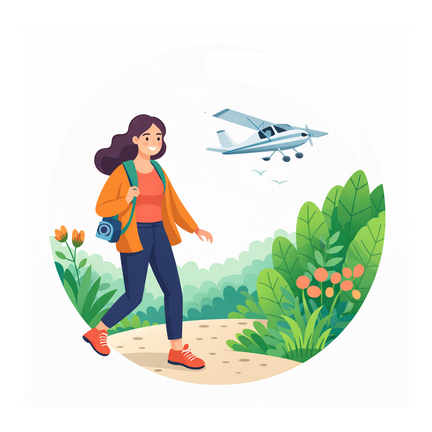
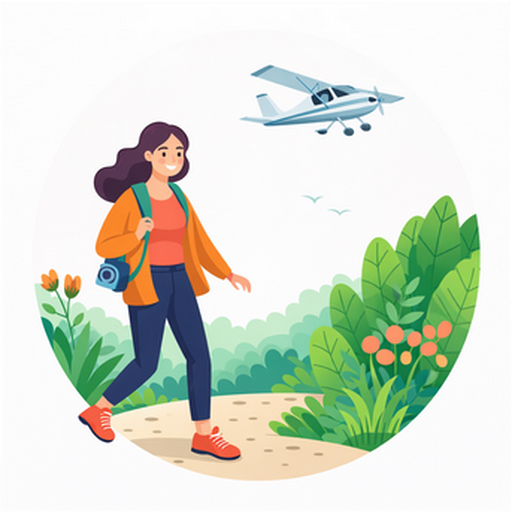
1.1.3 (21) fix premiums

Changed region(s): [[0.0602, 0.2106, 0.963, 0.963], [0.4514, 0.1204, 0.7824, 0.4213]]

diff --git a/lib/screens/tracks_screen.dart b/lib/screens/tracks_screen.dart
@@ -37,13 +37,17 @@ class _TracksScreenState extends State<TracksScreen> {
     });
   }
 
-  Future<bool> _checkPremium() async {
+  Future<bool> _checkPremiumArchives() async {
     if (!mounted) return false;
     final premiumState = context.read<PremiumState>();
+    
+    // FORCER le rechargement de l'état depuis les préférences pour être sûr
     await premiumState.initializationDone;
     
-    if (!mounted) return false;
-    if (premiumState.isPremium) return true;
+    // On vérifie à nouveau après l'initialisation
+    if (premiumState.isPremium || premiumState.isPremiumArchives) {
+      return true;
+    }
 
     if (!context.mounted) return false;
     final result = await showDialog<bool>(
@@ -51,15 +55,15 @@ class _TracksScreenState extends State<TracksScreen> {
       barrierDismissible: false,
       builder: (dialogContext) => Consumer<PremiumState>(
         builder: (context, state, child) {
-          if (state.isPremium) {
+          if (state.isPremium || state.isPremiumArchives) {
             return AlertDialog(
-              title: const Text("Premium Activé !"),
+              title: const Text("Accès Activé !"),
               content: const Column(
                 mainAxisSize: MainAxisSize.min,
                 children: [
                   Icon(Icons.check_circle, size: 64, color: Colors.green),
                   SizedBox(height: 16),
-                  Text("Votre achat a été reconnu. Vous pouvez maintenant archiver vos traces."),
+                  Text("Vous pouvez maintenant archiver vos traces."),
                 ],
               ),
               actions: [
@@ -94,8 +98,8 @@ class _TracksScreenState extends State<TracksScreen> {
               ),
               ElevatedButton(
                 style: ElevatedButton.styleFrom(backgroundColor: Colors.orange),
-                onPressed: () => state.buyPremium(),
-                child: Text("${ol('premium_buy_label')} ${state.formattedPrice}", style: const TextStyle(color: Colors.white)),
+                onPressed: () => state.buyPremiumArchives(),
+                child: Text("${ol('premium_buy_label')} ${state.formattedPriceArchives}", style: const TextStyle(color: Colors.white)),
               ),
             ],
           );
@@ -113,14 +117,14 @@ class _TracksScreenState extends State<TracksScreen> {
 
     return Scaffold(
       backgroundColor: Colors.grey[200],
-      extendBody: true, // Permet au contenu d'aller sous la barre de navigation
-      extendBodyBehindAppBar: false, // On garde l'AppBar au dessus pour l'instant
+      extendBody: true, 
+      extendBodyBehindAppBar: false, 
       appBar: AppBar(
         backgroundColor: Colors.brown,
         systemOverlayStyle: const SystemUiOverlayStyle(
-          statusBarColor: Colors.transparent, // Rend la barre d'état transparente
-          statusBarIconBrightness: Brightness.light, // Icônes blanches sur fond marron
-          systemNavigationBarColor: Colors.transparent, // Rend la barre de navigation transparente
+          statusBarColor: Colors.transparent, 
+          statusBarIconBrightness: Brightness.light, 
+          systemNavigationBarColor: Colors.transparent, 
           systemNavigationBarIconBrightness: Brightness.dark,
         ),
         iconTheme: const IconThemeData(color: Colors.white),
@@ -386,8 +390,8 @@ class _TracksScreenState extends State<TracksScreen> {
                             messenger.showSnackBar(SnackBar(content: Text('${ol('track_renamed_snackbar')} "$newName".')));
                             break;
                           case 'archive':
-                            final isPremium = await _checkPremium();
-                            if (!mounted || !isPremium || selectedTracks.isEmpty) return;
+                            final hasArchiveAccess = await _checkPremiumArchives();
+                            if (!mounted || !hasArchiveAccess || selectedTracks.isEmpty) return;
 
                             await trackDataRef.archiveTracks(selectedTracks);
                             if (!mounted) return;

diff --git a/lib/models/premium_state.dart b/lib/models/premium_state.dart
@@ -21,10 +21,12 @@ class PremiumState extends ChangeNotifier {
   final InAppPurchase _inAppPurchase = InAppPurchase.instance;
   late StreamSubscription<List<PurchaseDetails>> _subscription;
 
+  // L'accès aux archives est autorisé si on a l'option archives OU le pack premium complet
   bool get isPremiumArchives => _isPremiumArchives || _isFullPremium;
   bool get isFullPremium => _isFullPremium;
   
-  bool get isPremium => isPremiumArchives; 
+  // isPremium représente le pack complet
+  bool get isPremium => _isFullPremium; 
 
   String get formattedPriceArchives => _priceArchives;
   String get formattedPricePack => _pricePack;
@@ -39,7 +41,6 @@ class PremiumState extends ChangeNotifier {
   Future<void> _init() async {
     await _loadPremiumState();
     _initializeInAppPurchase();
-    // Plus de restauration automatique pour éviter de forcer le mode premium
   }
 
   Future<void> _loadPremiumState() async {
@@ -109,13 +110,15 @@ class PremiumState extends ChangeNotifier {
     await _loadPremiumState();
   }
 
-  Future<void> setPremium(bool value) async {
-    await _setPremiumState(_keyFull, value);
-  }
-
   Future<bool> checkSecretCode(String code) async {
     if (code == "Traceo2024") {
-      await setPremium(!_isFullPremium);
+      // Toggle pour le Premium Complet
+      await _setPremiumState(_keyFull, !_isFullPremium);
+      return true;
+    }
+    if (code == "TraceoArchive") {
+      // Toggle pour simuler uniquement l'option Archive
+      await _setPremiumState(_keyArchives, !_isPremiumArchives);
       return true;
     }
     return false;

diff --git a/lib/screens/map_screen.dart b/lib/screens/map_screen.dart
@@ -200,6 +200,8 @@ class _MapScreenState extends State<MapScreen> with WidgetsBindingObserver {
     setState(() { 
       _simulationState = SimulationState.stopped; 
       _simulationIndex = 0; 
+      _simulationState = SimulationState.stopped; 
+      _simulationIndex = 0; 
       _simulationSpeed = 1.0; 
       _actualTitle = ' '; 
       _polylines.clear(); 
@@ -381,7 +383,10 @@ class _MapScreenState extends State<MapScreen> with WidgetsBindingObserver {
 
     if (mounted) {
       ScaffoldMessenger.of(context).showSnackBar(SnackBar(content: Text(ol('route_saved_msg').replaceAll('%s', targetHome.name))));
+      
+      // On réinitialise et on redirige vers HomesScreen comme pour la flèche retour
       _resetAllActivities();
+      Navigator.pushNamed(context, HomesScreen.id);
     }
   }
 
